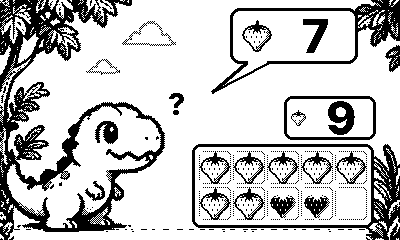
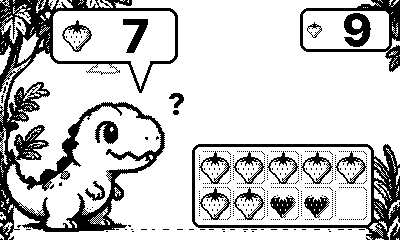
Move request bubble to the top left and total badge to the top right
Same top row in both games: request (tail points down at the T-Rex),
crank/A prompt in the middle, running total on the right.  The bubble
tail now leaves from whichever side is nearest its tip.

Claude-Session: https://claude.ai/code/session_01PSZdM1SDyvnNPt6Ptk92Sc

diff --git a/README.md b/README.md
@@ -37,8 +37,8 @@ twice in a row.
    numeral.
 2. Turn the **crank forward** to add strawberries and **backward** to take
    them out. Berries fill a **2×5 grid** (a ten-frame) one at a time, with
-   a bubbly sound. A **total badge** above the grid always shows how many
-   are on the tray. It hops on every change and turns black when it matches
+   a bubbly sound. A **total badge** in the top-right corner always shows
+   how many are on the tray, opposite the request bubble in the top-left. It hops on every change and turns black when it matches
    the request. Once the crank stops, the voice says the total.
 3. When the count matches, the dino gets excited and a pulsing **A** button
    appears. Press **A**. Berries fly into its mouth one at a time while the
@@ -58,7 +58,7 @@ twice in a row.
    many cells wide as each dino wants.
 3. The crank fills the grid **row by row**, so the answer is built as an
    array: 3 rows of 3. Each dino hops and smiles when its row is full. The
-   total badge in the top-left corner shows the running total and turns
+   total badge in the top-right corner shows the running total and turns
    black when it's right.
 4. Press **A**. Each dino eats its whole row in turn while the voice
    skip-counts (*"three, six, nine"*). Then it states the fact: *"Three

diff --git a/DESIGN_REVIEW.md b/DESIGN_REVIEW.md
@@ -28,6 +28,7 @@ Simulator.
 | 9 | Nothing showed the current total, so a child had to count berries to compare with the request. | New **total badge**: [berry] N. It hops on every change, turns black when it matches, counts up with the voice while eating, then shows the whole amount. |
 | 10 | In Multiplying, a badge next to "3 × 4" read like part of the equation. | Badge moved to the top-left corner, like a scoreboard, well clear of the bubble. |
 | 11 | Two-digit totals ("10", "25") overflowed the badge. | Badge widened to 92 px. A test checks both badges stay on screen and clear of the bubble. |
+| 12 | Request, prompt and total were in different places in each game. | Same top row in both games: request bubble top-left (tail down to the T-Rex), crank/A prompt in the middle, total badge top-right. A test checks the order. |
 
 ### Still open
 
